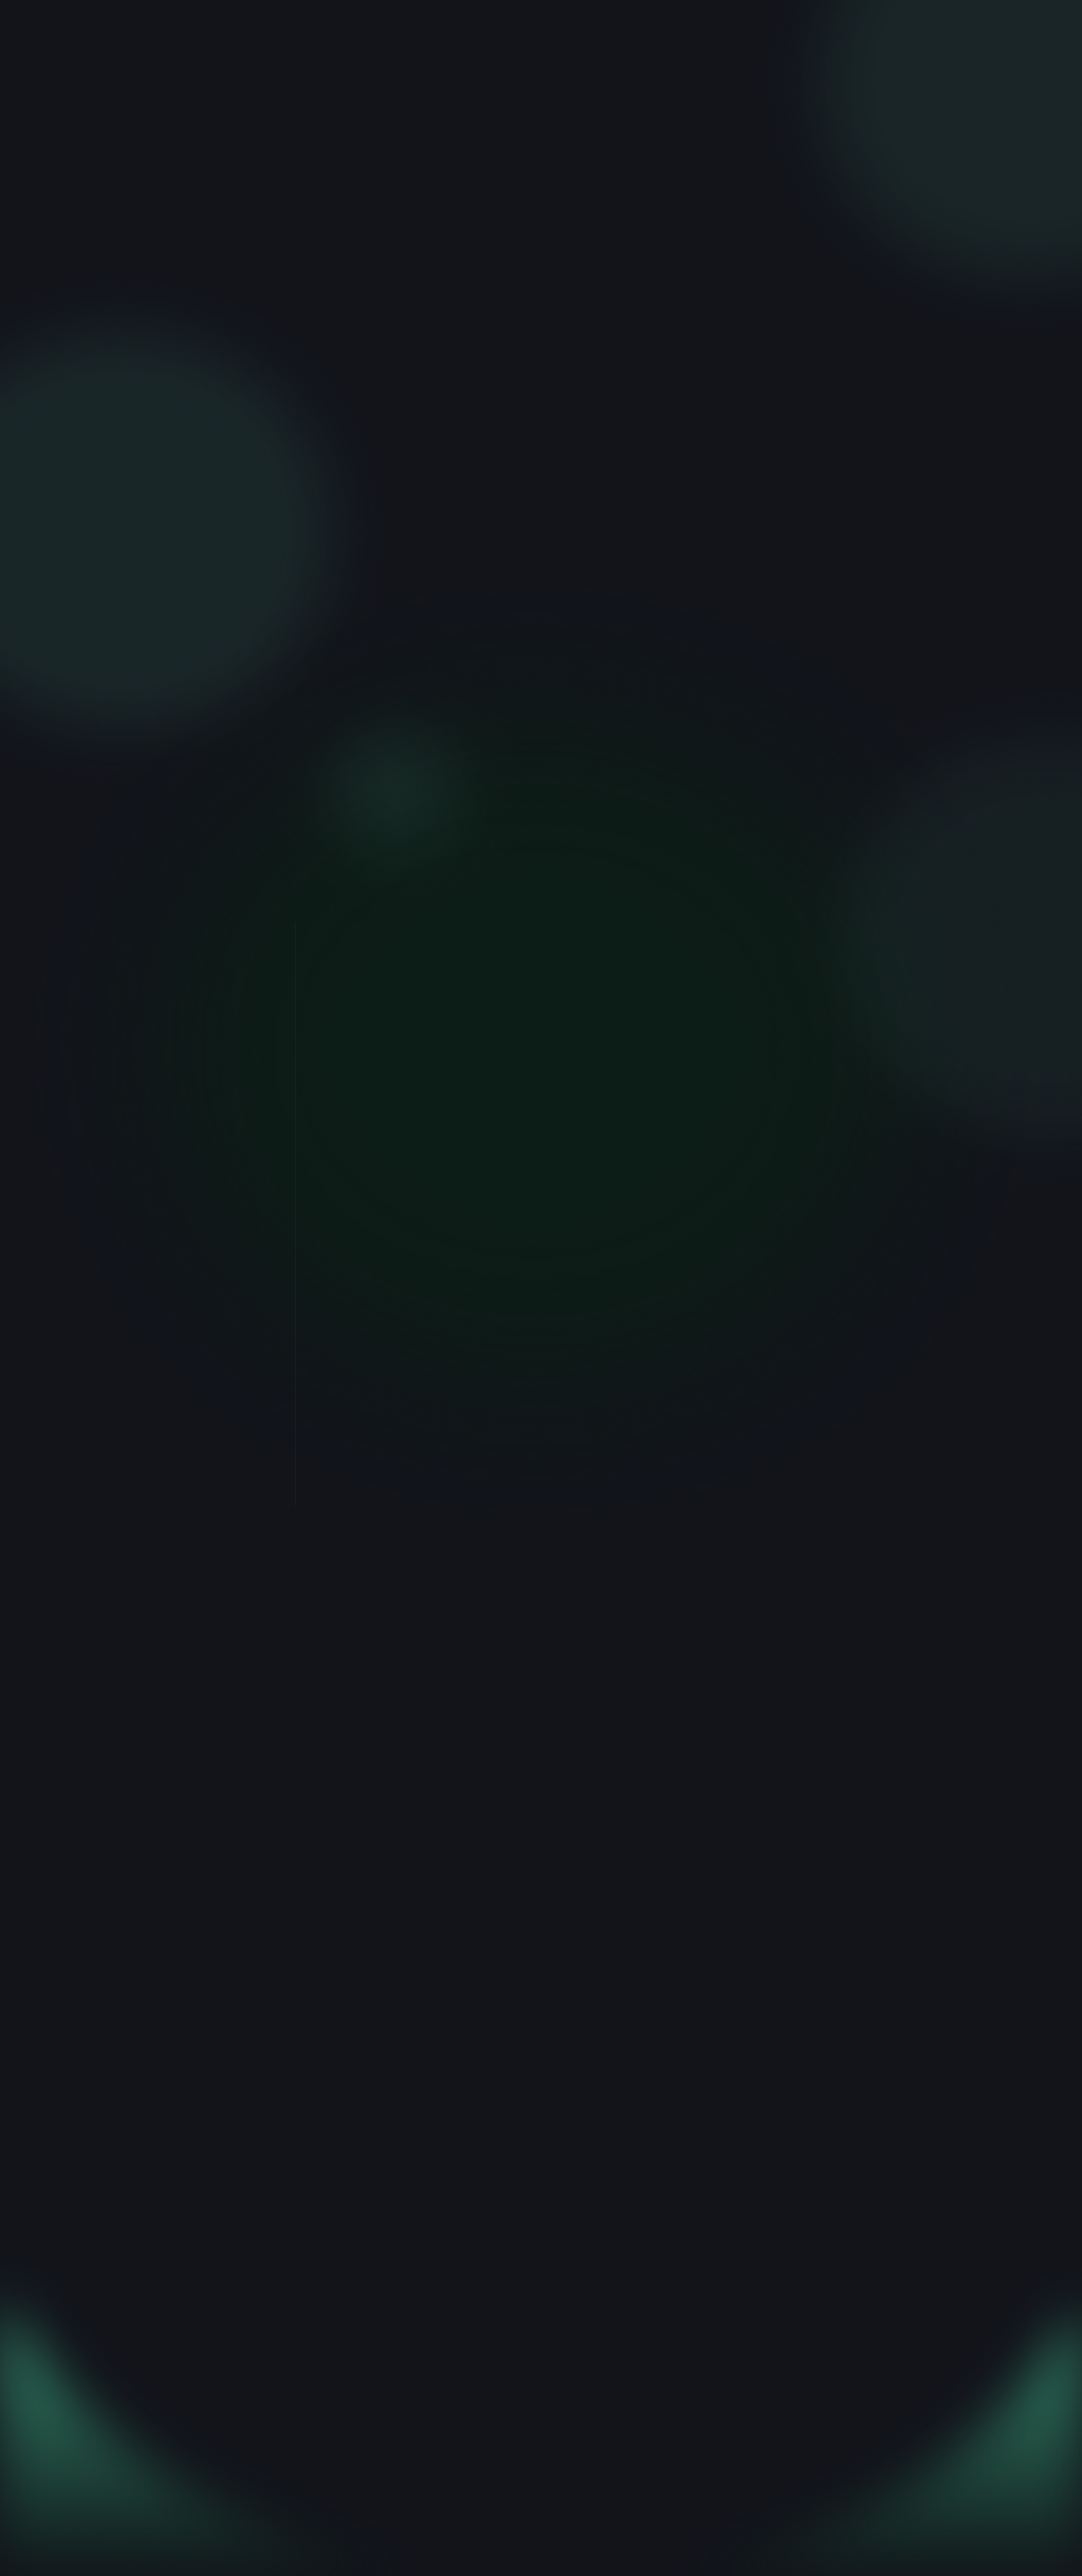
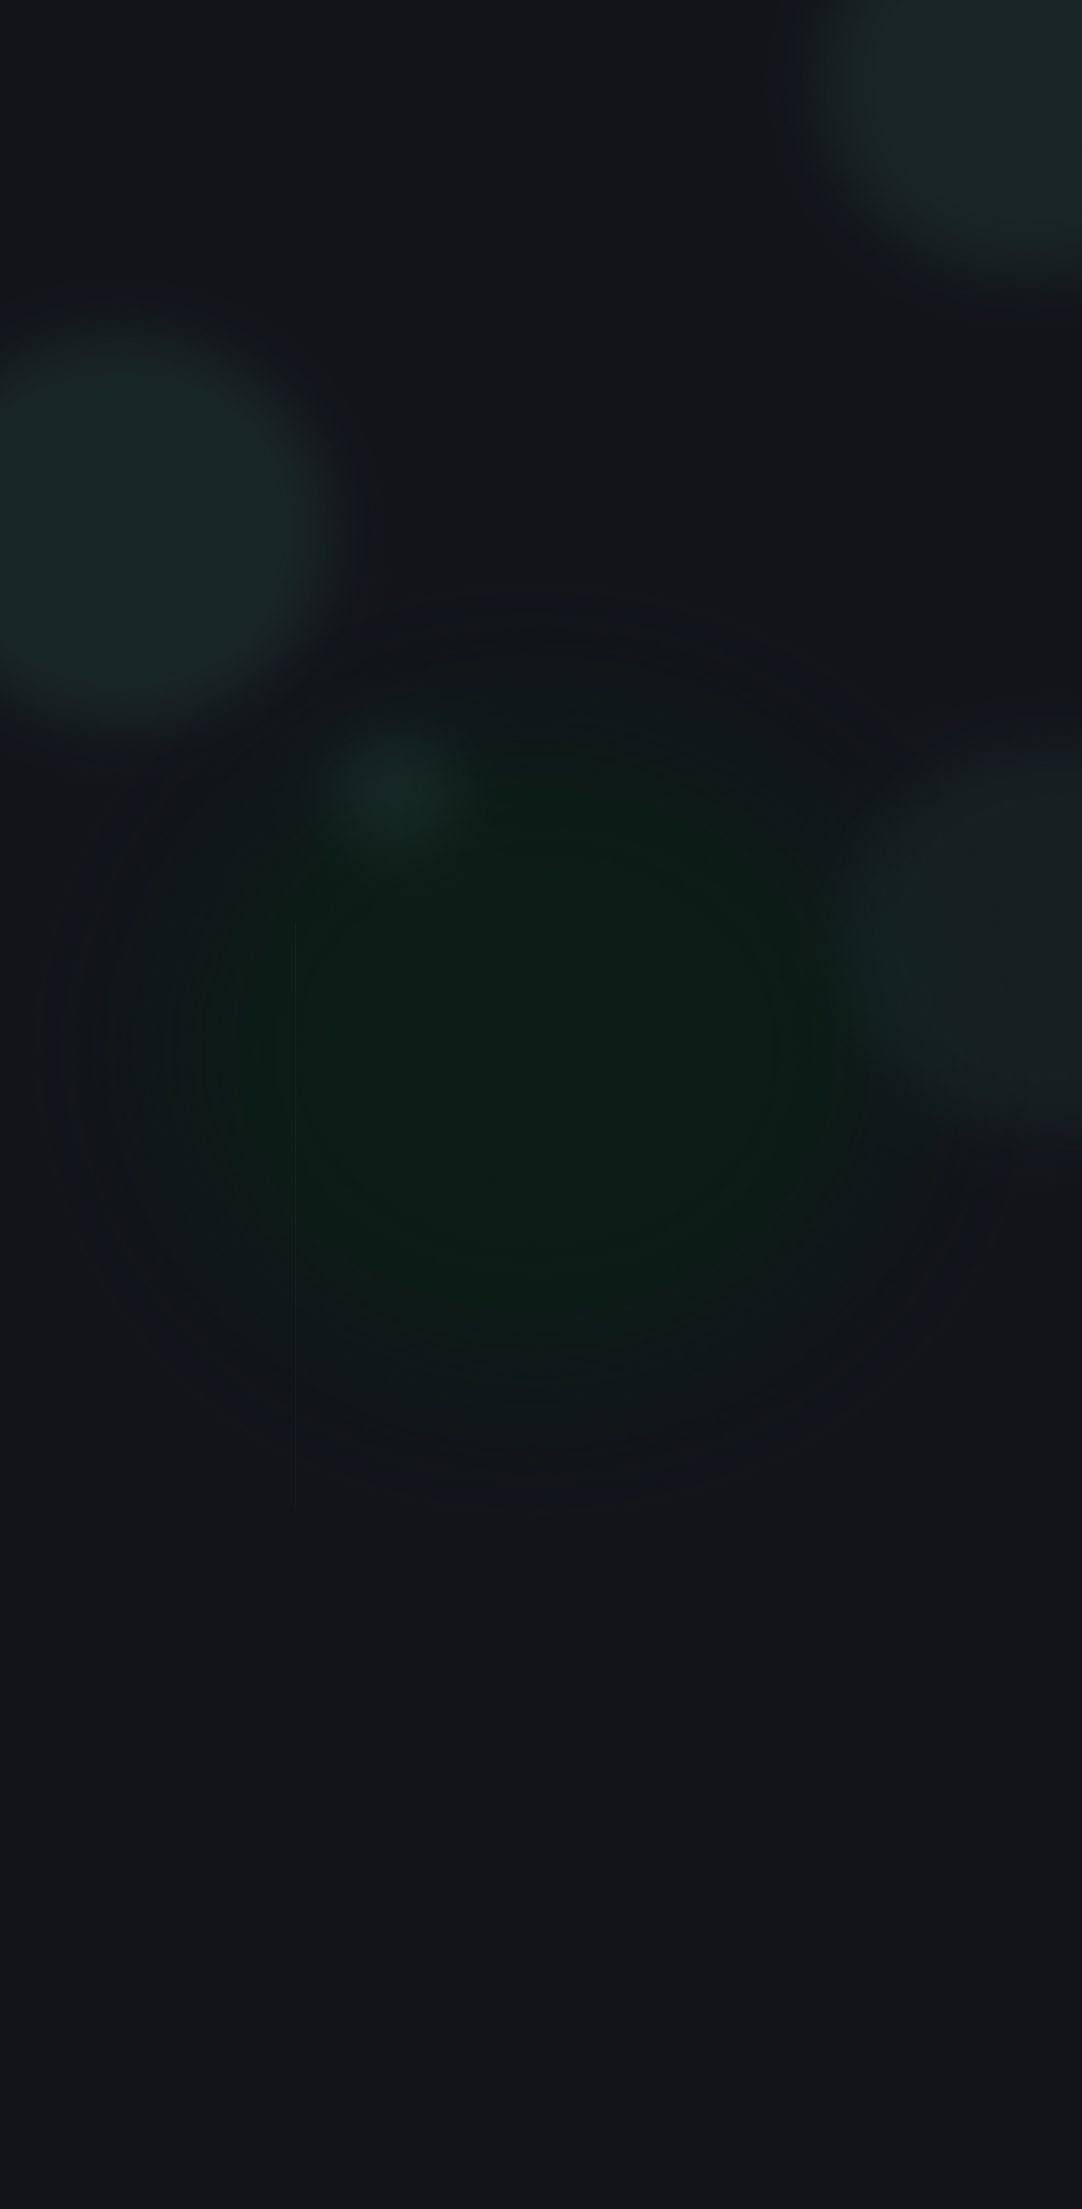
fix: margens corrigidas

Changed region(s): [[0.8438, 0.9026, 1.0, 0.9959], [0.0, 0.9026, 0.1562, 0.9959]]

diff --git a/filminis/src/App.tsx b/filminis/src/App.tsx
@@ -1,63 +1,11 @@
-//import DevsCard from "./components/DevsCard";
-//import PilarsCard from "./components/PilarsCard";
-//import LoginPage from './pages/LoginPage';
-//import Foto from "./assets/images/Vitor-Roque.jpg"
-//import AboutUsHeroBackground from "./components/AboutUsHeroBackground";
-//import MovieCategoryModal from "./components/MovieCategory";
-//import Jason from "./assets/images/Jason.png"
-//import ImageCardMovie from "./assets/images/Hellboy.png"
-//import MovieCard from "./components/MovieCard";
-//import ActionMovieCard from "./components/ActionMoviesCard";
-//import Chilgurn from "./assets/images/Chilgurn.png"
-//import CastCard from "./components/CastCard";
-//import PornActor from "./assets/images/Ator.png"
-//import Diretor from './assets/images/StanleyKubrick.png'
-//import DirectorCard from './components/DirectorCard';
-//import MovieBanner from "./components/MovieBanner";
-//import HomeCarrosselInfo from "./components/HomeCarrosselInfo";
-//import HomeCarrossel from "./components/HomeCarrossel";
-//import FilmeBanner from "./assets/images/A-Origem.png"
-//import ButtonHome from "./components/ButtonHome";
-//import CategoryFilterOption from "./components/CategoryFilterOption";
-//import ButtonFilter from "./components/ButtonFilter";
-//import FilterInput from "./components/FilterInput";
-//import Topic from "./components/Topic";
-//import CategoryFilterContainer from "./components/CategoryFilterContainer";
-//import GenericInput from "./components/GenericInput";
-//import ButtonGeneric from "./components/ButtonGeneric";
-//import Chips from "./components/Chips";
-//import Home from "./pages/Home";
-//import AboutUs from "./pages/AboutUs";
 import AppRoutes from "./routes";
 
 function App() {
-  //return <LoginPage />;
-  //return <DevsCard nome={"Alex"} imgPerfil={Foto} funcao={"Dev Backend"} altText={"imagem do desenvolvedor"} />
-  //return <AboutUsHeroBackground/>;
-  //return <MovieCategoryModal title="HORROR" imageLink={Jason}/>
-  //return <MovieCard imageLink={ImageCardMovie} title="REQUIEM PARA UM SONHO" produtora="Warner Bros" ano="2001"/>
-  //return <ActionMovieCard imageLink={Chilgurn} titulo="Onde os fracos não tem vez" duracao="02:30:03"/>
-  //return <CastCard imageLink={PornActor} nome="Keir Dullea"/>
-  //return <DirectorCard imageLink={Diretor} nome="Stanley Kubrick"/>
-  //return <MovieBanner imageLink={ImageCardMovie}/>
-  //return <HomeCarrosselInfo ano="2007" titulo="A origem" genero="Ficção científica"/>
-  //return <HomeCarrossel imageLink={FilmeBanner}/>
-  //return <ButtonHome text="Faça login"/>
-  //return <CategoryFilterOption text="Coiso" id='1'/>
-  //return <ButtonFilter text="atores"/>
-  //return <FilterInput/>
-  //return <Topic text="Cuzinho"/>
-  //return <CategoryFilterContainer/>
-  //return <GenericInput label="Titulo" placeholder="Digite o titulo do filme"/>
-  //return <ButtonGeneric variant="login">cuzinho</ButtonGeneric>
-  //return <Chips text="CU PRETO" variant="waiting"/>
-  //return <Home/>
   return (
     <>
       <AppRoutes/>
     </>
   )
-  
   
 }
 

diff --git a/filminis/src/components/HomeCarrosselInfo/index.tsx b/filminis/src/components/HomeCarrosselInfo/index.tsx
@@ -1,27 +1,27 @@
-import styles from './HomeCarrosselInfo.module.css'
-import Seta from '../../assets/icons/Seta.png'
+  import styles from './HomeCarrosselInfo.module.css'
+  import Seta from '../../assets/icons/Seta.png'
 
-type HomeCarrosselInfoProps = {
-  ano: string;
-  titulo: string;
-  genero: string;
-};
+  type HomeCarrosselInfoProps = {
+    ano: string;
+    titulo: string;
+    genero: string;
+  };
 
-function HomeCarrosselInfo({ ano, titulo, genero}: HomeCarrosselInfoProps) {
-  return (
-        <article className={styles.CarrosselInfo}>
-            <div className={styles.CarrosselInfoContainer}>
-                <p>{titulo} ({ano})</p>
-                <p>{genero}</p>
-            </div>
+  function HomeCarrosselInfo({ ano, titulo, genero}: HomeCarrosselInfoProps) {
+    return (
+          <article className={styles.CarrosselInfo}>
+              <div className={styles.CarrosselInfoContainer}>
+                  <p>{titulo} ({ano})</p>
+                  <p>{genero}</p>
+              </div>
 
-            <a href=''>VER MAIS
-                <img src={Seta}></img>
-            </a>
+              <a href=''>VER MAIS
+                  <img src={Seta}></img>
+              </a>
 
-        </article>
-        
-  );
-}
+          </article>
+          
+    );
+  }
 
-export default HomeCarrosselInfo;
+  export default HomeCarrosselInfo;

diff --git a/filminis/src/pages/Search/index.tsx b/filminis/src/pages/Search/index.tsx
@@ -17,7 +17,7 @@ function Search(){
                 <Navbar/>
             </header>
 
-            <main>
+            <main className={styles.searchMain}>
                 <aside>
                     <FilterInput setSearchText={setSearchContent}/>
                     <div className={styles.filterButtonGroup}>

diff --git a/filminis/src/components/NavBar/NavBar.css b/filminis/src/components/NavBar/NavBar.css
@@ -3,7 +3,7 @@
   align-items: center;
   position: fixed; 
   padding: 15px 25px 15px 25px;
-  top: 0;
+  top: 0;     
   width: 100%;
   background: #12141A;
   background: linear-gradient(120deg, rgba(18, 20, 26, 1) 0%, rgba(25, 37, 39, 1) 100%);

diff --git a/filminis/src/pages/Home/Home.module.css b/filminis/src/pages/Home/Home.module.css
@@ -6,8 +6,8 @@
 }
 
 .homeContainer {
-  
     background: url('../../assets/background/FUNDO.png');
+    background-size: cover;
     min-height: 100vh; 
     width: 100%;
     display: flex;

diff --git a/filminis/src/main.tsx b/filminis/src/main.tsx
@@ -9,5 +9,5 @@ createRoot(document.getElementById('root')!).render(
     <BrowserRouter>
       <App />
     </BrowserRouter>
-  </StrictMode>,
+  </StrictMode>
 );

diff --git a/filminis/src/pages/Search/SearchPage.module.css b/filminis/src/pages/Search/SearchPage.module.css
@@ -6,7 +6,7 @@
     background-repeat: no-repeat;
     
 }
-main{
+.searchMain{
     margin-top: 75px;
     margin-left: 10px;
     display: flex;

diff --git a/filminis/src/index.css b/filminis/src/index.css
@@ -6,6 +6,7 @@
 
 html {
   height: 100%; 
+  max-width: 100vw;
 }
 
 :root {
